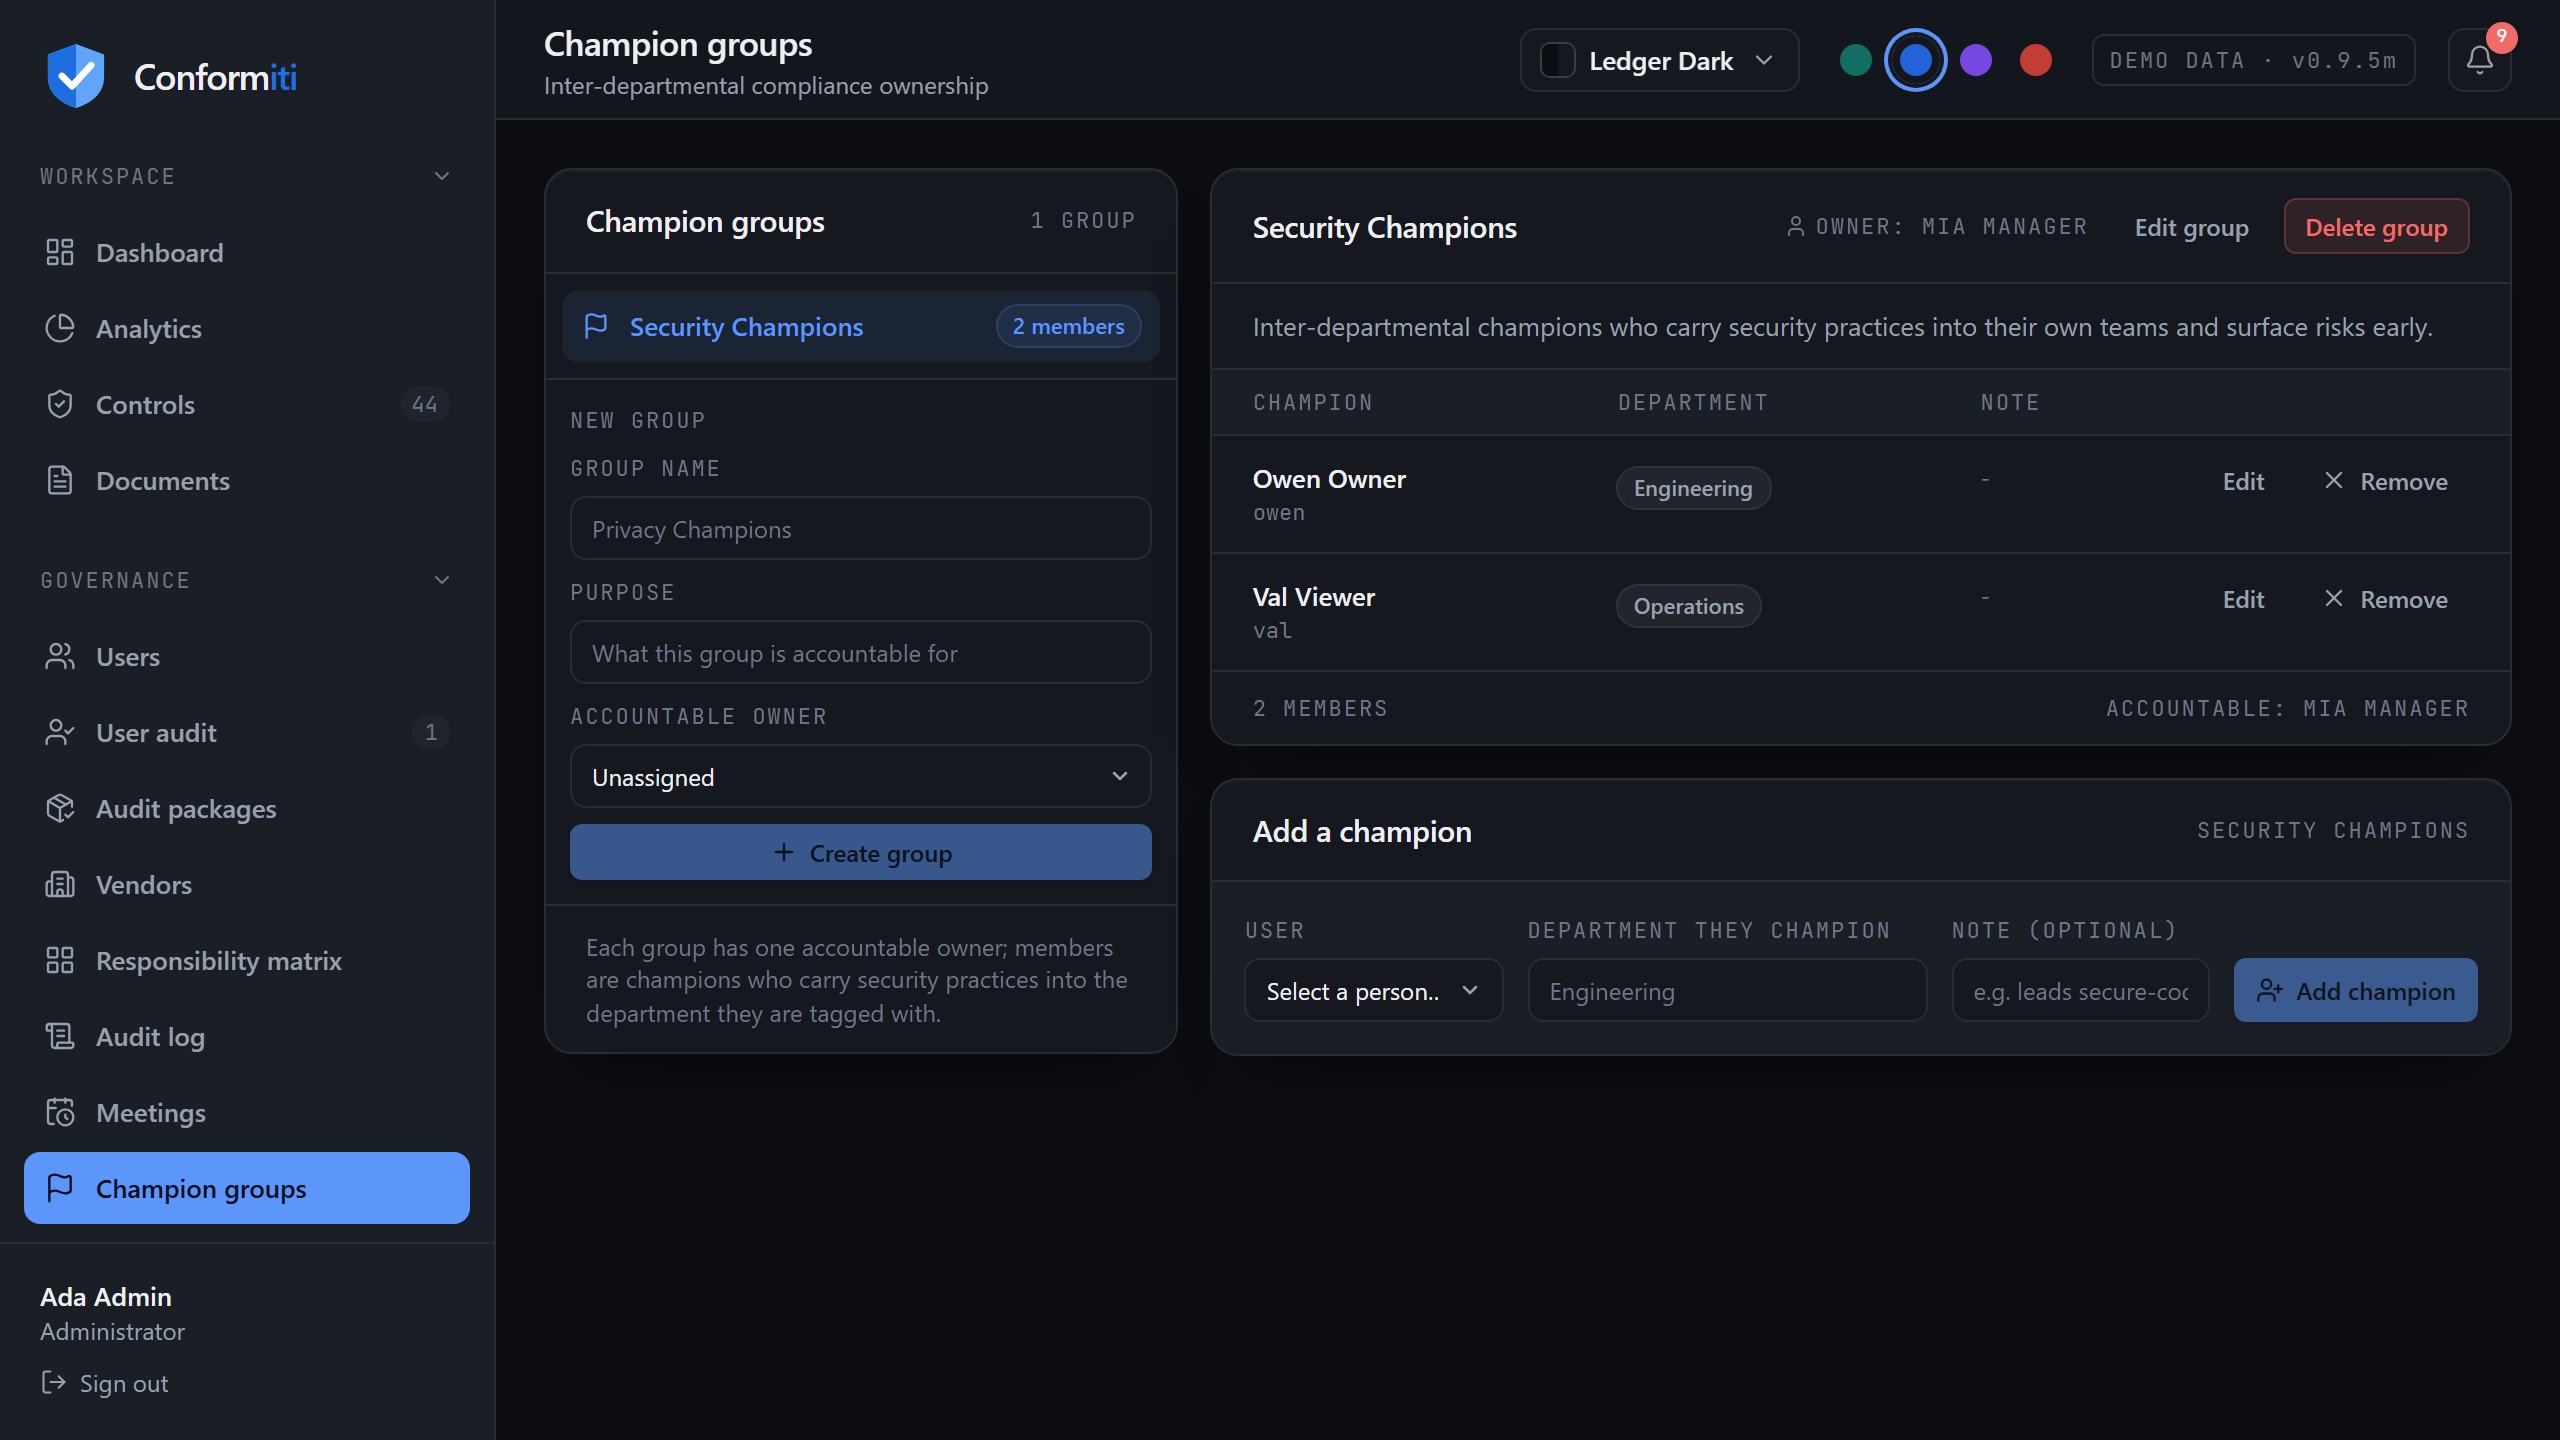
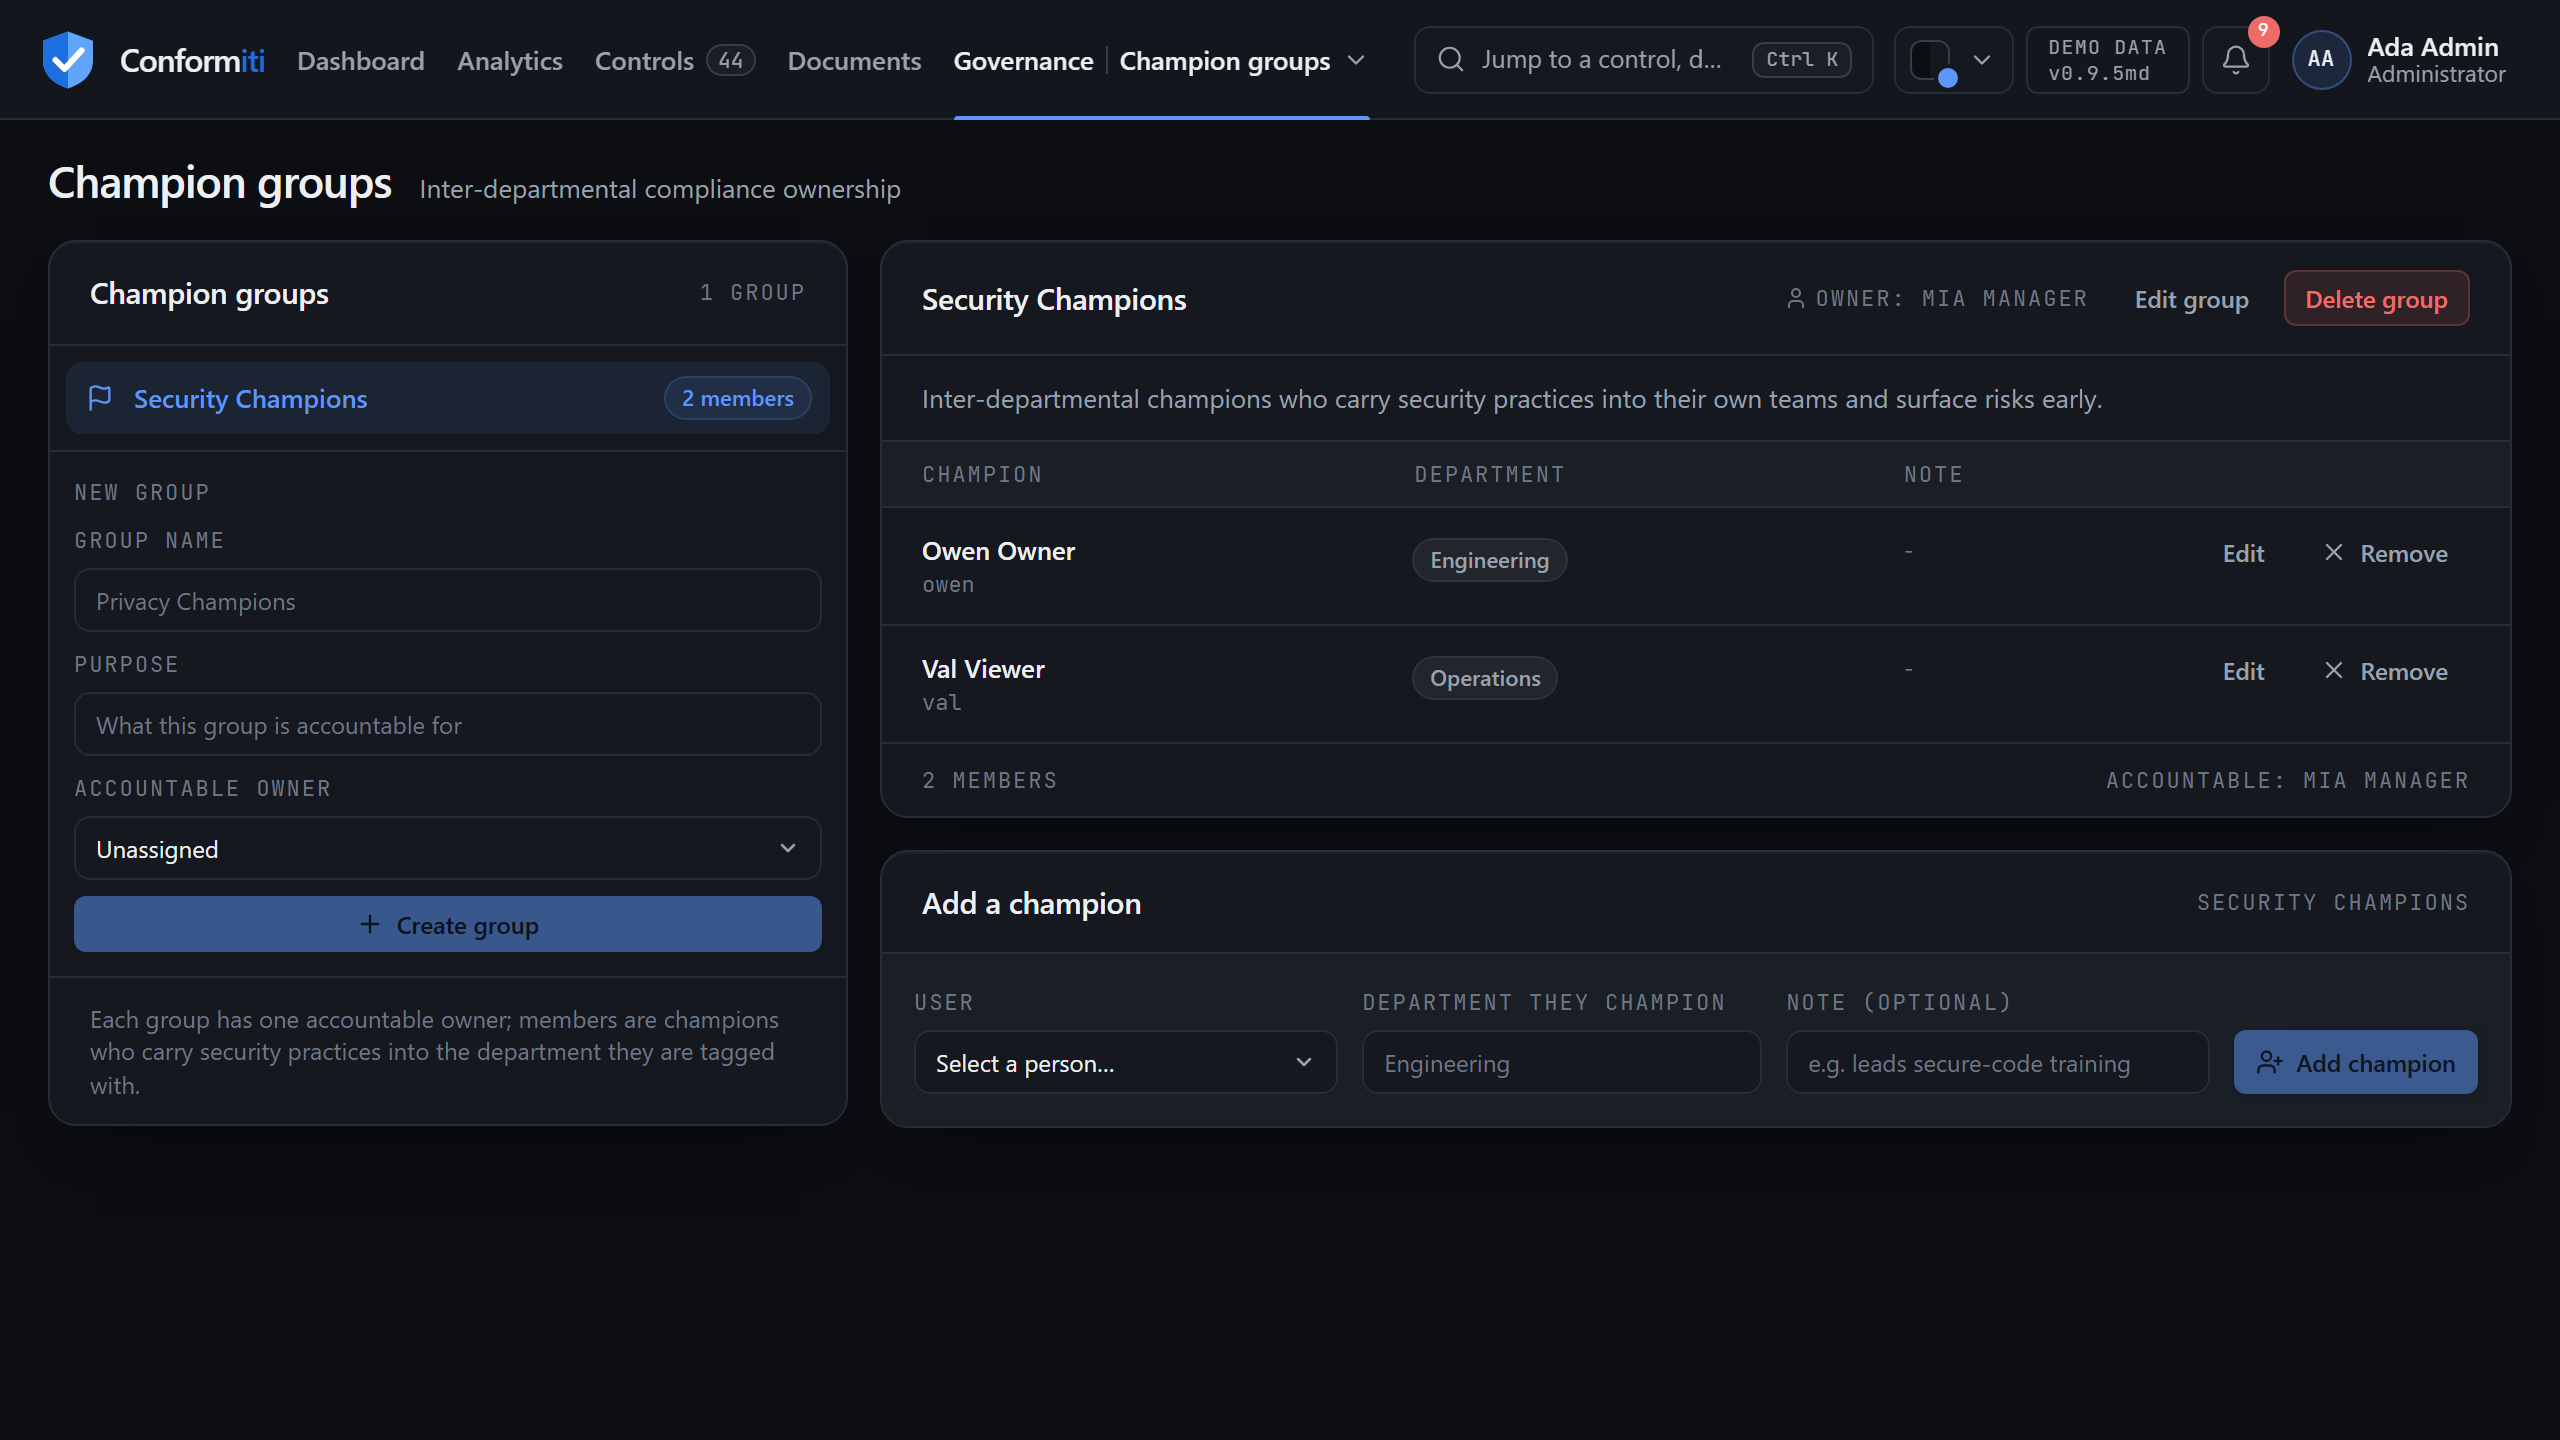
0.9.5md: release the top-bar redesign
Navigation moves into one top bar, the dashboard gains the lead schedule and the coverage atlas, and the README screenshots are retaken in the new layout.

diff --git a/backend/config/version.py b/backend/config/version.py
@@ -3,4 +3,4 @@
 Read by the health endpoint, the entrypoint banner and the docs tooling.
 Bump this together with CHANGELOG.md.
 """
-__version__ = "0.9.5mc"
+__version__ = "0.9.5md"

diff --git a/README.md b/README.md
@@ -5,7 +5,7 @@
 **Self-hosted GRC for SOC 2, ISO/IEC 27001:2022 and PCI DSS v4.0.1: controls, evidence, vendors, risk and access reviews in one audit-ready system, ending in a sealed package your assessor can verify without you.**
 
 [![CI](https://github.com/dboudreau00/Conformiti/actions/workflows/ci.yml/badge.svg)](https://github.com/dboudreau00/Conformiti/actions/workflows/ci.yml)
-[![Release](https://img.shields.io/badge/release-v0.9.5mc-1D6FE0.svg)](CHANGELOG.md)
+[![Release](https://img.shields.io/badge/release-v0.9.5md-1D6FE0.svg)](CHANGELOG.md)
 [![License: MIT](https://img.shields.io/badge/License-MIT-green.svg)](LICENSE)
 ![Python](https://img.shields.io/badge/Python-3.11%20to%203.14-3776AB?logo=python&logoColor=white)
 ![Django](https://img.shields.io/badge/Django-5.2%20LTS-092E20?logo=django&logoColor=white)
@@ -688,16 +688,16 @@ a guided first hour in [GETTING_STARTED.md](GETTING_STARTED.md).
 
 Both are built for `linux/amd64` and `linux/arm64`, so the same tag runs on an
 Ampere or Graviton VPS and on an Apple Silicon laptop. Each release is tagged
-with its version (`0.9.5mc`), with the first seven characters of the commit it
+with its version (`0.9.5md`), with the first seven characters of the commit it
 was built from (`sha-…`), and the newest release also answers to `latest`. The version an image carries
 is read out of `backend/config/version.py` at build time, which is the same
 string `/api/health/` reports, so a running container cannot claim a version
 its code is not.
 
 ```bash
-docker pull ghcr.io/dboudreau00/conformiti-backend:0.9.5mc
-CONFORMITI_VERSION=0.9.5mc docker compose -f docker-compose.yml -f docker-compose.ghcr.yml pull
-CONFORMITI_VERSION=0.9.5mc docker compose -f docker-compose.yml -f docker-compose.ghcr.yml up -d
+docker pull ghcr.io/dboudreau00/conformiti-backend:0.9.5md
+CONFORMITI_VERSION=0.9.5md docker compose -f docker-compose.yml -f docker-compose.ghcr.yml pull
+CONFORMITI_VERSION=0.9.5md docker compose -f docker-compose.yml -f docker-compose.ghcr.yml up -d
 ```
 
 `docker-compose.ghcr.yml` only swaps the four built services for the published
@@ -993,7 +993,7 @@ release tags; `main` is the development line. After `git fetch --tags`,
 
 ```bash
 scripts/backup.sh                 # first, always
-git fetch --tags && git checkout v0.9.5mc
+git fetch --tags && git checkout v0.9.5md
 docker compose pull && docker compose up -d --build
 ```
 
@@ -1010,7 +1010,7 @@ back afterwards (after the backup, as always):
 
 ```bash
 git stash
-git fetch --tags && git checkout v0.9.5mc
+git fetch --tags && git checkout v0.9.5md
 git stash pop                     # settle any conflict it reports, then rebuild
 ```
 
@@ -1027,14 +1027,14 @@ sets them:
 
 ```bash
 scripts/backup.sh
-git fetch --tags && git checkout v0.9.5mc
+git fetch --tags && git checkout v0.9.5md
 unset CONFORMITI_VERSION          # an exported pin overrides the one in .env
-# In .env, move the pin to the new release: CONFORMITI_VERSION=0.9.5mc
+# In .env, move the pin to the new release: CONFORMITI_VERSION=0.9.5md
 docker compose pull && docker compose up -d
 ```
 
 Change the pin in `.env`, not on the command line. A version given inline
-(`CONFORMITI_VERSION=0.9.5mc docker compose ...`) or exported lasts for that
+(`CONFORMITI_VERSION=0.9.5md docker compose ...`) or exported lasts for that
 one command or shell. The next short-form command, an `up -d` after any
 `.env` edit or `scripts/restore.sh`, reads the old pin from `.env` again and
 puts the previous release's images back on a database the new release has
@@ -1058,6 +1058,12 @@ the framework files list, so edits to those fields (possible only in the
 Django admin) do not survive a restart. Controls you add yourself are left as
 they are.
 
+**0.9.5md** has no migration. The sidebar becomes a top bar: the Governance
+pages open from the Governance menu, and Settings and Sign out from the account
+menu. Scripts that drive the interface find the page title as the `<h1>` inside
+`<main>`. `GET /api/analytics/summary/` adds `id`, `with_evidence`, `score` and
+`bands` to each framework, and `GET /api/controls/atlas/` is new; nothing that
+was there changes its meaning.
 **0.9.5mc** has no migration. The Django admin no longer adds documents,
 document versions or form templates and takes no file, and it shows evidence
 packages and completed access reviews read-only. An account moved out of the

diff --git a/INSTALL.md b/INSTALL.md
@@ -163,7 +163,7 @@ Like the base file, it needs Compose 2.24 or newer.
 in both commands, because `pull` and `up` each read it:
 
 ```bash
-export CONFORMITI_VERSION=0.9.5mc
+export CONFORMITI_VERSION=0.9.5md
 docker compose -f docker-compose.yml -f docker-compose.ghcr.yml pull
 docker compose -f docker-compose.yml -f docker-compose.ghcr.yml up -d
 ```
@@ -180,11 +180,11 @@ reads for every command run in this directory, so the short forms (and
 
 ```ini
 COMPOSE_FILE=docker-compose.yml:docker-compose.ghcr.yml
-CONFORMITI_VERSION=0.9.5mc
+CONFORMITI_VERSION=0.9.5md
 ```
 
 Keep the pin there too. The `export` above lasts for that shell, and a
-version given inline (`CONFORMITI_VERSION=0.9.5mc docker compose ...`) for
+version given inline (`CONFORMITI_VERSION=0.9.5md docker compose ...`) for
 that one command. While the export lasts it overrides `.env`, so once the pin
 is written there, run `unset CONFORMITI_VERSION` and keep the variable out of
 shell profiles: the pin in `.env` is then the one every later command reads,
@@ -217,7 +217,7 @@ nginx read the file again.
 
 A container will tell you what it is: `curl -s localhost:8080/api/health/`
 reports the version compiled into the image, and
-`docker inspect ghcr.io/dboudreau00/conformiti-backend:0.9.5mc` carries the
+`docker inspect ghcr.io/dboudreau00/conformiti-backend:0.9.5md` carries the
 commit it was built from in `org.opencontainers.image.revision`.
 
 Building from source remains the default, and stays supported: the images are

diff --git a/CHANGELOG.md b/CHANGELOG.md
@@ -11,7 +11,7 @@ says what changed and what to expect on upgrade.
 
 ---
 
-## [Unreleased]
+## [0.9.5md], 2026-10-02
 
 A top bar in place of the sidebar, and a dashboard that reads as a schedule
 and a map of the programme. No stored data, permission or setting changed.
@@ -75,6 +75,8 @@ menu, and Settings and Sign out in the account menu.
   the Documents card became a cell of Needs attention. A panel that cannot load
   says so and offers a retry, and a refused or slow atlas leaves the rest of
   the page standing.
+- **The Settings section list stays in view** while a long section scrolls,
+  where before it scrolled away with the page and left the column empty.
 
 ### Fixed
 
